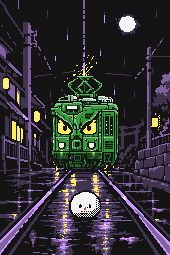
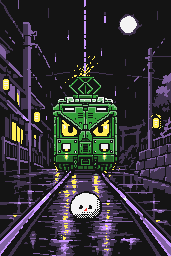
The Tsukumo Tram's card redrawn dead face-on, no side and no depth (still a draft behind ?story); the cards' small motion runs under «reduce motion» too
- The tram: a gpt-image edit of its card, the rest kept, the tram's flat front only (its two eyes, its brow, the pantograph and sparks), cut on its grid (171x256).
- cardLive no longer goes still when the system asks for less motion: its blinks, twinkles and flickers are small and in place (a holo's sweep or tilt will heed it).

Owner: «трамвай только в фас, убери объем».

diff --git a/src/game.js b/src/game.js
@@ -2203,7 +2203,7 @@ const STORY = {
   boss_cart: { n: '', still: 'assets/cards/12_boss_cart.png', cells: [151, 227], ink: 'cave', draft: true, title: BOSSES.cart.name },
   boss_puck: { n: '', still: 'assets/cards/13_boss_puck.png', cells: [192, 288], ink: 'ice', draft: true, title: BOSSES.puck.name },
   boss_namazu: { n: '', still: 'assets/cards/14_boss_namazu.png', cells: [189, 284], ink: 'sea', draft: true, title: BOSSES.namazu.name },
-  boss_tram: { n: '', still: 'assets/cards/15_boss_tram.png', cells: [170, 255], ink: 'tokyo', draft: true, title: BOSSES.tram.name },
+  boss_tram: { n: '', still: 'assets/cards/15_boss_tram.png', cells: [171, 256], ink: 'tokyo', draft: true, title: BOSSES.tram.name },
   boss_crane: { n: '', still: 'assets/cards/16_boss_crane.png', cells: [191, 287], ink: 'blocks', draft: true, title: BOSSES.crane.name },
   boss_pigeon: { n: '', still: 'assets/cards/17_boss_pigeon.png', cells: [158, 237], ink: 'sky', draft: true, title: BOSSES.pigeon.name },
   boss_koschei: { n: '', still: 'assets/cards/18_boss_koschei.png', cells: [198, 297], ink: 'skazka', draft: true, title: BOSSES.koschei.name },
@@ -2236,13 +2236,13 @@ function storyFrame(f, w, h) {
 }
 // A card comes alive by the game itself (owner, К4 «А»: as the preview), on a canvas of its cells over the art: the eyes shut for two steps of
 // eight a second every 3.5 s, small specks dim to the mid tone in turn, the three biggest lights' edges dip to the ink now and then; all
-// from assets/cards/live.json (scratchpad cards3/live.py over the art). Still for those who ask the system for less motion.
+// from assets/cards/live.json (scratchpad cards3/live.py over the art). Small and in place, so it runs under «reduce motion» too (a sweep or a
+// tilt would not).
 const LIVE = { step: 125, blink: [20, 21], every: 28, flick: [1, 1, 0, 1, 1, 1, 0, 1, 1, 0, 1, 1] };
 let liveData = null;
 function cardLive(c, card) {
   const [w, h] = c.cells, cv = document.createElement('canvas'), g = cv.getContext('2d');
   cv.className = 'slive'; cv.width = w; cv.height = h; card.insertBefore(cv, card.querySelector('.sframe'));
-  if (window.matchMedia && matchMedia('(prefers-reduced-motion: reduce)').matches) return { stop() {} };
   let f = 0, L = null;
   (liveData || (liveData = fetch('assets/cards/live.json').then((r) => r.json()).catch(() => ({})))).then((j) => { L = j[c.id] || null; });
   const fill = (cells, col) => { g.fillStyle = col; for (const [x, y] of cells) g.fillRect(x, y, 1, 1); };
